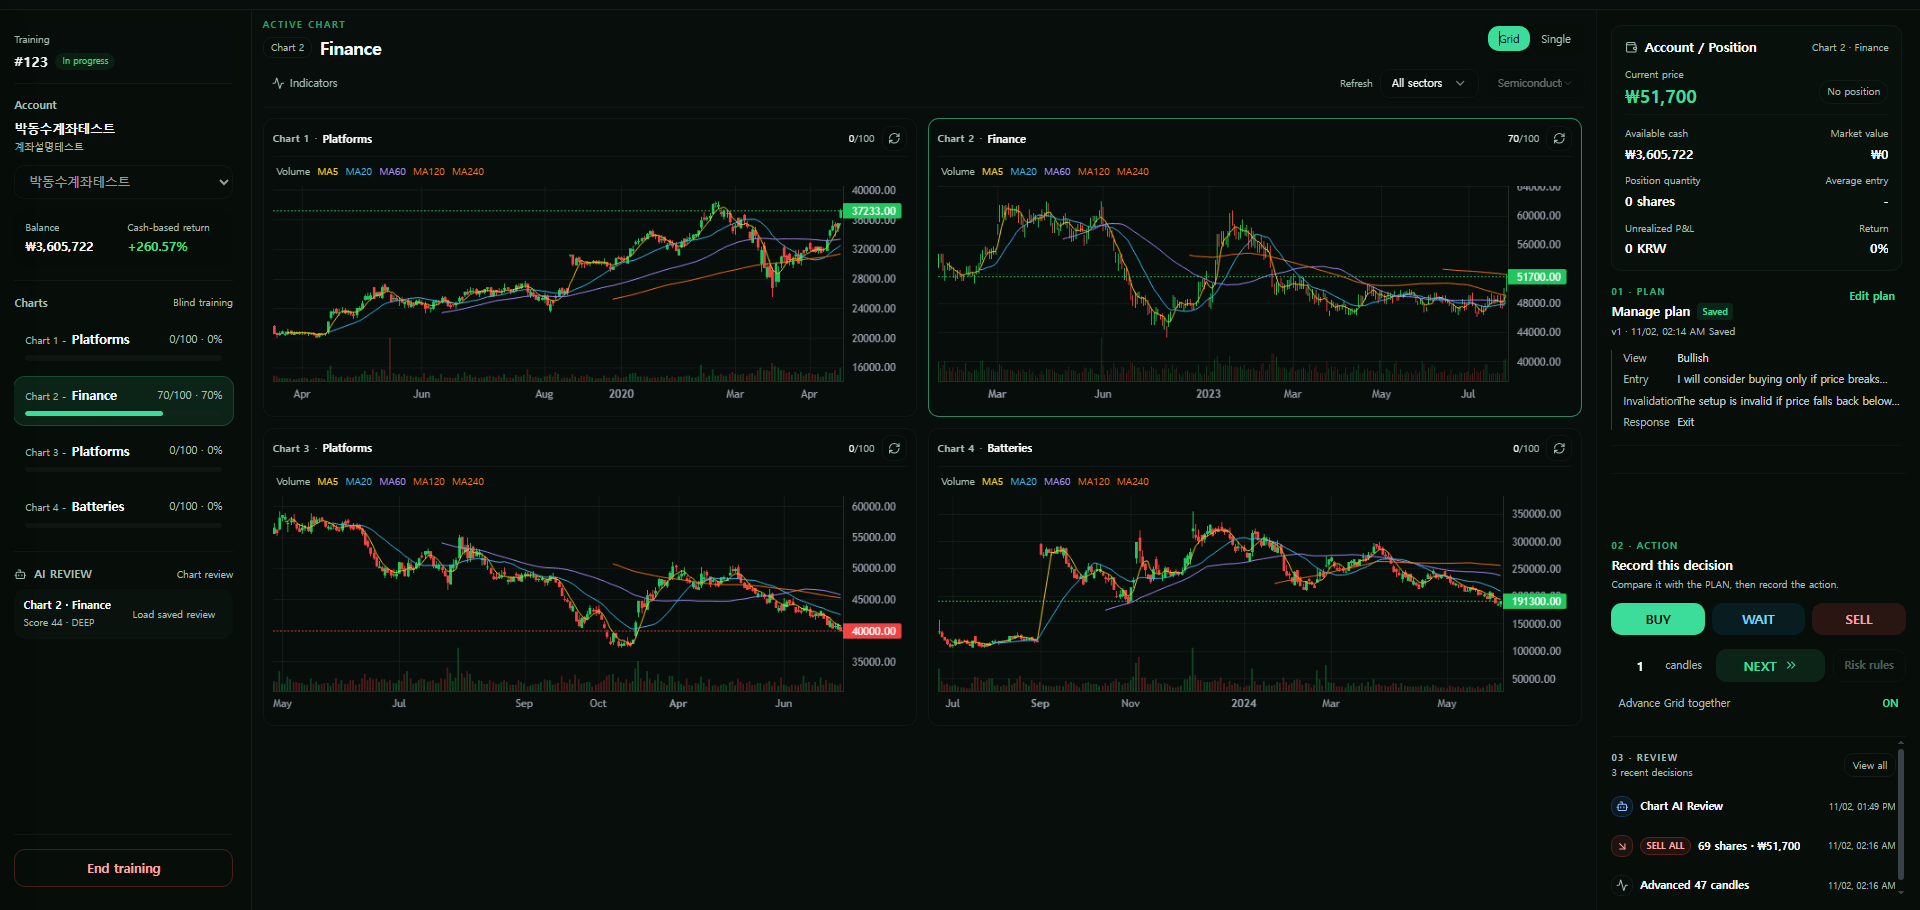
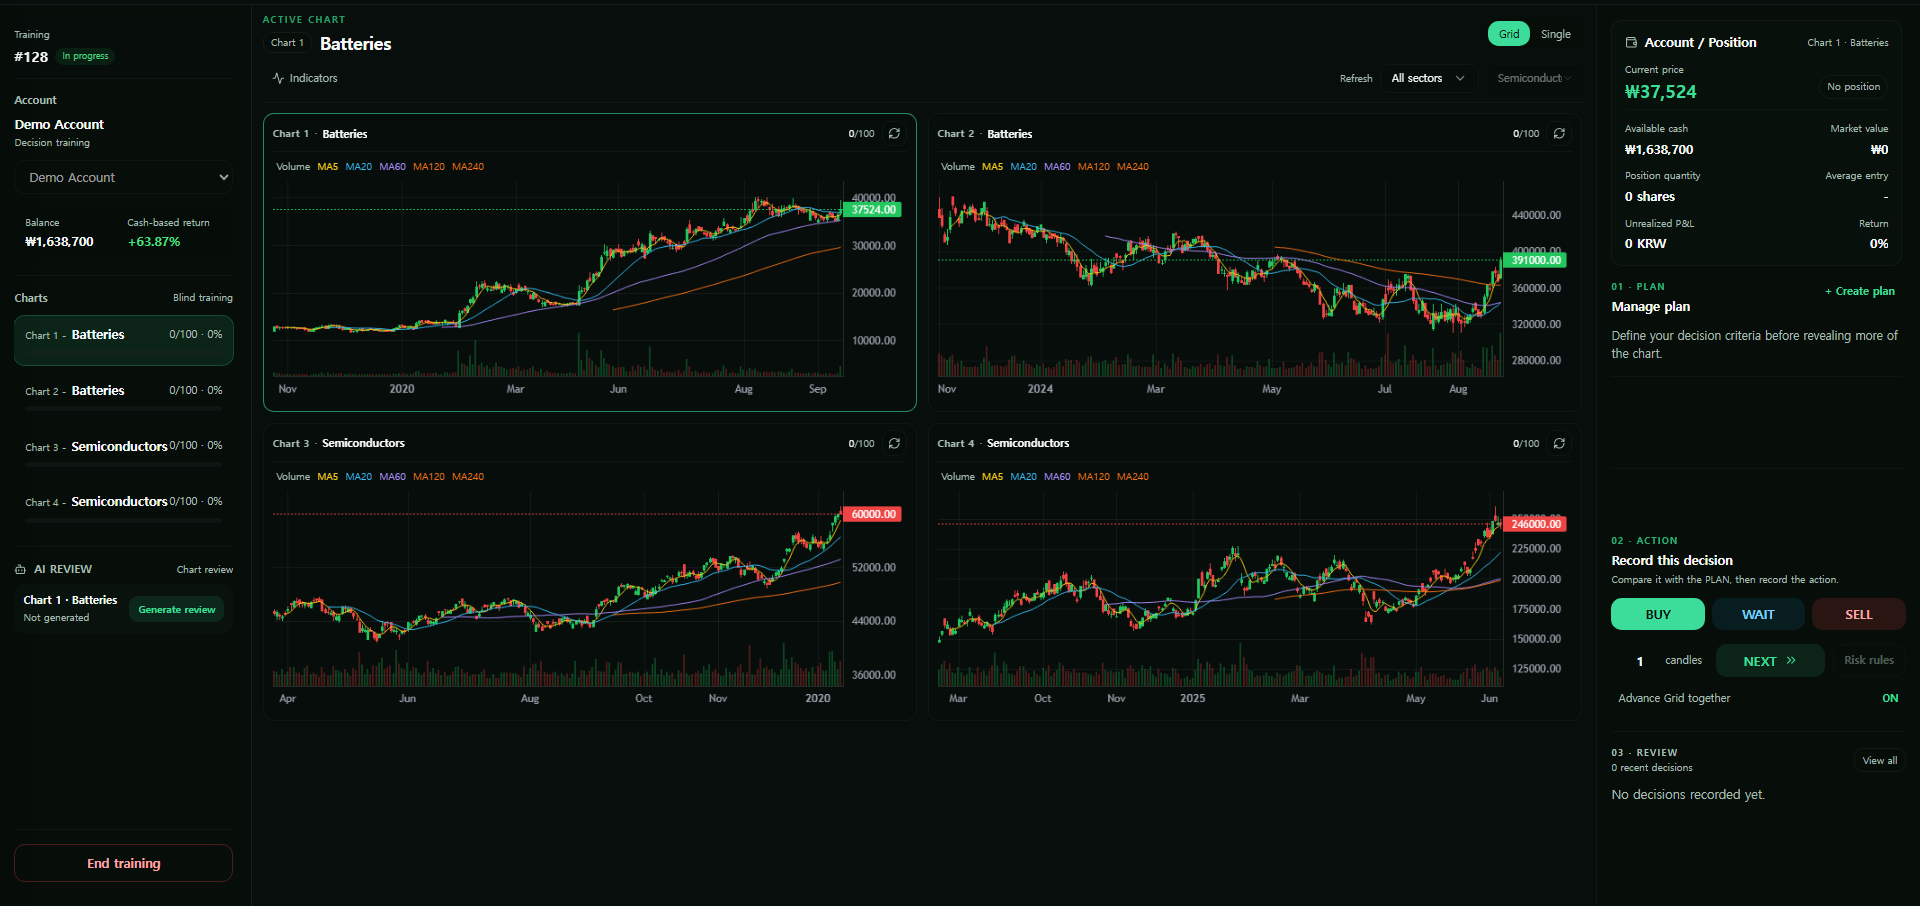
fix: use recaptured workspace with Demo Account

diff --git a/tradenova-frontend/src/components/landing/ProductWalkthrough.tsx b/tradenova-frontend/src/components/landing/ProductWalkthrough.tsx
@@ -18,7 +18,7 @@ import { useI18n } from "@/i18n/LanguageProvider";
 
 // Native sizes reserve aspect ratios; displayWidth can enlarge compact control captures.
 const englishScreenshots = {
-  workspace: { src: trainingWorkspace, width: 1920, height: 910 },
+  workspace: { src: trainingWorkspace, width: 1920, height: 906 },
   blind: { src: blindChart, width: 1330, height: 716 },
   plan: { src: scenarioPlan, width: 679, height: 743 },
   next: { src: nextProgress, width: 935, height: 637, displayWidth: 420 },
